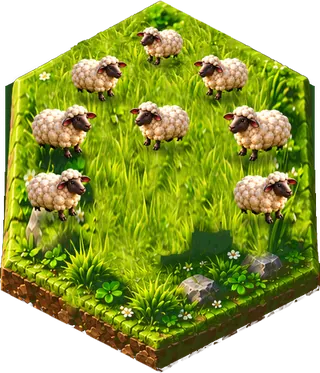
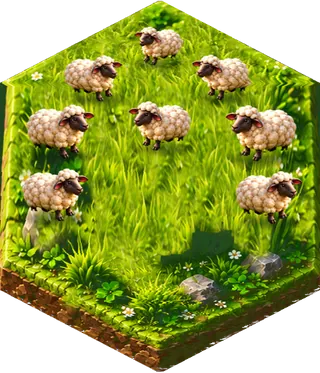
feat: modern karolar altıgene tam oturacak şekilde yeniden şekillendirildi (aralıksız, taşmasız)
Claude-Session: https://claude.ai/code/session_01QibjsRSt2QAKKNbnPooWG9

diff --git a/app.js b/app.js
@@ -407,7 +407,7 @@ function draw(boardState, drawOpts) {
     if (modern) {
       const w = Math.sqrt(3) * size;
       g.appendChild(svgEl("image", {
-        href: `assets/modern/${tile.key}.webp?v=2`,
+        href: `assets/modern/${tile.key}.webp?v=3`,
         x: x - w / 2, y: y - size * look.ys,
         width: w, height: 2 * size * look.ys + look.depth * size,
         preserveAspectRatio: "none",
